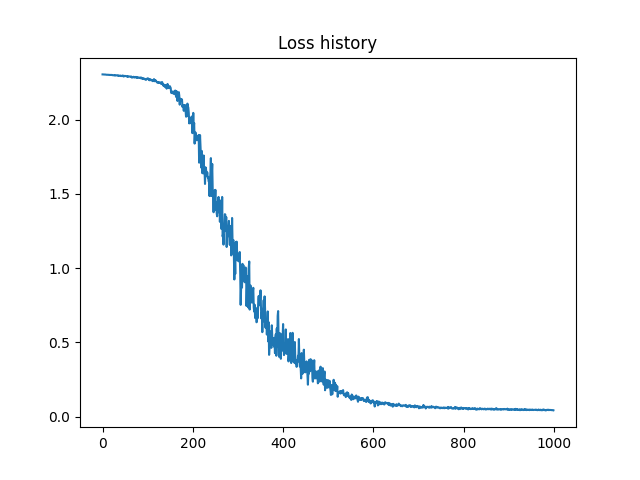
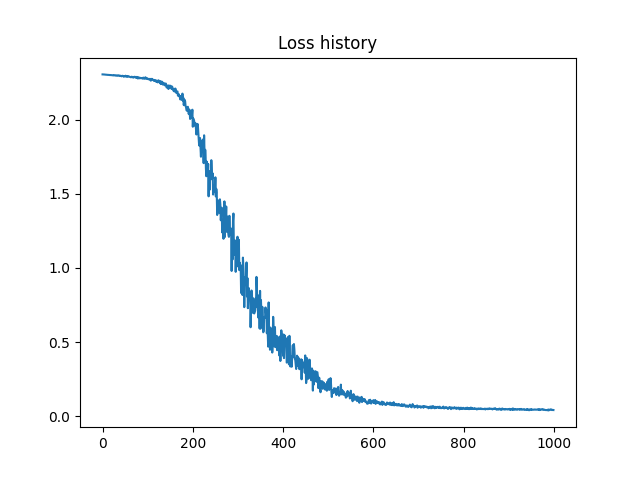
sem4

Changed region(s): [[0.2188, 0.1562, 0.5938, 0.8438], [0.7812, 0.8438, 0.8438, 0.875], [0.6562, 0.8438, 0.7188, 0.875]]

diff --git a/src/seminar4.py b/src/seminar4.py
@@ -33,6 +33,7 @@ class Optimizer(ABC):
 
 class SGD(Optimizer):
     def step(self, w, d_w, learning_rate):
+        w -= learning_rate*d_w
         # TODO Update W with d_W
         pass
 
@@ -45,14 +46,18 @@ class Momentum(Optimizer):
     def step(self, w, d_w, learning_rate):
         if self.velocity is None:
             self.velocity = np.zeros_like(d_w)
+        self.velocity = self.rho * self.velocity + d_w
+        w -= learning_rate*self.velocity
         # TODO Update W with d_W and velocity
 
 
 class DropoutLayer(Layer):
     def forward(self, x: np.ndarray, train: bool = True) -> np.ndarray:
         if train:
+            self.mask = np.random.random(x.shape) > self.p
+            self.scale = 1/(1-self.p)
+            return x * self.mask * self.scale
             # TODO zero mask in random X position and scale remains
-            pass
         else:
             return x
 
@@ -103,9 +108,13 @@ class BatchNormLayer(Layer):
         self.num_examples = x.shape[0]
         if train:
             # TODO Compute mean_x and var_x
+            self.mean_x = np.mean(x, axis = 0)
+            self.var_x = np.var(x, axis = 0)
             self._update_running_variables()
         else:
             # TODO Copy mean_x and var_x from running variables
+            self.mean_x = self.running_mean_x
+            self.var_x = self.running_var_x
             pass
 
         self.var_x += epsilon
@@ -201,10 +210,18 @@ class NeuralNetwork:
             for k, v in layer_params.items():
                 model_params[f'layer_{i}_{k}'] = v
         return model_params
+    def evaluate(self, X, y):
+        z = self.forward(X)
+        y_predicted = np.argmax(z, axis=1)
+        accuracy = np.mean(y_predicted == y)
+        return accuracy
+def train():
+    learning_rate = 0.01
+    reg = 0.1
+    num_iters = 800
+    batch_size = 16
 
 
-if __name__ == '__main__':
-    """1 point"""
     (x_train, y_train), (x_test, y_test) = get_preprocessed_data(include_bias=False)
     # Train your neural net!
     n_input, n_output, n_hidden = 3072, 10, 256
@@ -213,3 +230,35 @@ if __name__ == '__main__':
                                 BatchNormLayer(n_hidden),
                                 ReLULayer(),
                                 DenseLayer(n_hidden, n_output)])
+    neural_net.setup_optimizer(Momentum())
+    t0 = datetime.datetime.now()
+    loss_history = neural_net.fit(x_train, y_train, learning_rate, num_iters, batch_size)
+    t1 = datetime.datetime.now()
+    dt = t1 - t0
+
+    report = f"""# Training classifier  
+    datetime: {t1.isoformat(' ', 'seconds')}  
+    Well done in: {dt.seconds} seconds  
+    learning_rate = {learning_rate}  
+    reg = {reg}  
+    num_iters = {num_iters}  
+    batch_size = {batch_size}  
+
+    Final loss: {loss_history[-1]}   
+    Train accuracy: {neural_net.evaluate(x_train, y_train)}   
+    Test accuracy: {neural_net.evaluate(x_test, y_test)}  
+
+    <br>
+    <img src="loss.png">
+    """
+    print(report)
+
[1 lines of base64/hex data omitted]
+    report_path = os.path.join(out_dir, 'report.md')
+    with open(report_path, 'w') as f:
+        f.write(report)
+    visualize_loss(loss_history, out_dir)
+
+if __name__ == '__main__':
+    """1 point"""
+    train()

diff --git a/output/seminar3/report.md b/output/seminar3/report.md
@@ -1,14 +1,14 @@
 # Training classifier  
-    datetime: 2023-10-14 01:36:01  
-    Well done in: 13 seconds  
+    datetime: 2023-10-14 01:49:42  
+    Well done in: 12 seconds  
     learning_rate = 0.005  
     reg = 0.01  
     num_iters = 1000  
     batch_size = 64  
 
-    Final loss: 0.042667399468080534   
-    Train accuracy: 0.16212   
-    Test accuracy: 0.1602  
+    Final loss: 0.042873184474209465   
+    Train accuracy: 0.15868   
+    Test accuracy: 0.1577  
 
     <img src="weights.png">  
     <br>

diff --git a/output/seminar4/report.md b/output/seminar4/report.md
@@ -1,0 +1,15 @@
+# Training classifier  
+    datetime: 2023-10-28 10:30:23  
+    Well done in: 8 seconds  
+    learning_rate = 0.01  
+    reg = 0.1  
+    num_iters = 800  
+    batch_size = 16  
+
+    Final loss: 0.0011022231571792772   
+    Train accuracy: 0.16144   
+    Test accuracy: 0.1647  
+
+    <br>
+    <img src="loss.png">
+    
